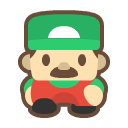
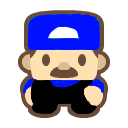
Changed colour of officer

Changed region(s): [[0.2188, 0.0938, 0.7812, 0.4062], [0.1562, 0.5938, 0.8125, 0.9062]]

diff --git a/Sketch2.java b/Sketch2.java
@@ -39,8 +39,8 @@ public class Sketch2 extends PApplet {
   float officerY = 110;
   float prisonerX = 640;
   float prisonerY = 350;
-  int intOfficerSpeed = 4;
-  int intPrisonerSpeed = 4;
+  int intOfficerSpeed = 3;
+  int intPrisonerSpeed = 5;
   int intGCount;
   int intPCount;
   int SCREEN_WIDTH = 1408;
@@ -321,7 +321,7 @@ public class Sketch2 extends PApplet {
   if (intTimer == 0){
     intTimerStart = 2;
   }
-  
+    
   // Guard win screen
   if (blnGuardWin == true || intTimer == 0){
     image(imgMenu, 0, 0);
@@ -331,12 +331,12 @@ public class Sketch2 extends PApplet {
     fill(255);
     textSize(150);
     text("GAME OVER", 340, 460);
-    fill(21, 255, 0);
+    fill(13, 5, 247);
     textSize(60);
     text("The Guard Won!", 490, 550);
-   }
-   // Prisoner win screen 
-   if (intKeyCount == 6 && (prisonerX < 32 || prisonerX > 1366)){
+    }
+    // Prisoner win screen 
+    if (intKeyCount == 6 && (prisonerX < 32 || prisonerX > 1366)){
     image(imgMenu, 0, 0);
     fill(0);
     rect(200, 210, 1000, 400);
@@ -348,7 +348,7 @@ public class Sketch2 extends PApplet {
     textSize(60);
     text("The Prisoner Won!", 460, 550);
     } 
-  }
+  }  
 
   /**
    * Method to create grass
@@ -399,10 +399,26 @@ public class Sketch2 extends PApplet {
   public void officerCollisionUp() {
     // from (1, 1) to (1, 20)
     if((officerY <= TILE_HEIGHT * 2) 
-    // Left exit: from (7, 1) going right 3 tiles
+    // Left exit botton: from (7, 1) going right 3 tiles
     || ((officerY + PLAYER_HEIGHT >= TILE_HEIGHT * 7) && (officerY <= TILE_HEIGHT * 8) && (officerX <= TILE_WIDTH * 3))
+    // Left exit top: from (6, 1) going right 1 tile
+    || ((officerY <= TILE_HEIGHT * 6) && officerX <= TILE_HEIGHT * 2)
     // Right exit: from (7, 16) going right 7 tiles
-    || ((officerY <= TILE_HEIGHT * 8) && (officerY >= TILE_HEIGHT * 7) && (officerX + PLAYER_WIDTH >= TILE_WIDTH * 16)))
+    || ((officerY <= TILE_HEIGHT * 8) && (officerY >= TILE_HEIGHT * 7) && (officerX + PLAYER_WIDTH >= TILE_WIDTH * 16))
+    // Top of jail cell from (6, 9) going right 3 tiles
+    || ((officerY + PLAYER_HEIGHT >= TILE_HEIGHT * 6) && (officerY <= TILE_HEIGHT * 7) && (officerX + PLAYER_WIDTH >= TILE_WIDTH * 9) && (officerX + PLAYER_WIDTH/2 <= TILE_WIDTH * 13))
+    // Bottom of jail cell from (10, 9) going right 3 tiles
+    || ((officerY + PLAYER_HEIGHT >= TILE_HEIGHT * 10) && (officerY <= TILE_HEIGHT * 11) && (officerX + PLAYER_WIDTH >= TILE_WIDTH * 9) && (officerX + PLAYER_WIDTH/2 <= TILE_WIDTH * 13))
+    // 3 block horizontals middle left
+    || ((officerX >= TILE_WIDTH * 2.5) && (officerX + PLAYER_WIDTH/2 <= TILE_WIDTH * 6) && (officerY + PLAYER_HEIGHT >= TILE_HEIGHT * 9) && (officerY <= TILE_HEIGHT * 10))
+    // 3 block horizontals on bottom right
+    || ((officerX >= TILE_WIDTH * 15.5) && (officerX + PLAYER_WIDTH/2 <= TILE_WIDTH * 19) && (officerY + PLAYER_HEIGHT >= TILE_HEIGHT * 13) && (officerY <= TILE_HEIGHT * 14))
+    // 3 block horizontals on middle right
+    || ((officerX >= TILE_WIDTH * 15.5) && (officerX + PLAYER_WIDTH/2 <= TILE_WIDTH * 19) && (officerY + PLAYER_HEIGHT >= TILE_HEIGHT * 9) && (officerY <= TILE_HEIGHT * 10))
+    // 3 block horizontals on top left
+    || ((officerX >= TILE_WIDTH * 2.5) && (officerX + PLAYER_WIDTH/2 <= TILE_WIDTH * 6) && (officerY + PLAYER_HEIGHT >= TILE_HEIGHT * 3) && (officerY <= TILE_HEIGHT * 4))
+    // 3 block horizontals on top right
+    || ((officerX >= TILE_WIDTH * 15.5) && (officerX + PLAYER_WIDTH/2 <= TILE_WIDTH * 19) && (officerY + PLAYER_HEIGHT >= TILE_HEIGHT * 3) && (officerY <= TILE_HEIGHT * 4)))
     { 
       officerY += intOfficerSpeed;
     }
@@ -416,7 +432,21 @@ public class Sketch2 extends PApplet {
     // Left exit: from (7, 1) going right 3 tiles
     || ((officerY + PLAYER_HEIGHT >= TILE_HEIGHT * 7) && (officerY + PLAYER_HEIGHT <= TILE_HEIGHT * 8) && (officerX <= TILE_WIDTH * 3))
     // from (7, 16) going right 5 tiles
-    || ((officerY + PLAYER_HEIGHT >= TILE_HEIGHT * 7) && (officerY <= TILE_HEIGHT * 8) && (officerX + PLAYER_WIDTH >= TILE_WIDTH * 16)))
+    || ((officerY + PLAYER_HEIGHT >= TILE_HEIGHT * 7) && (officerY <= TILE_HEIGHT * 8) && (officerX + PLAYER_WIDTH >= TILE_WIDTH * 16))
+    // Top of jail cell from (6, 9) going right 3 tiles
+    || ((officerY + PLAYER_HEIGHT >= TILE_HEIGHT * 6) && (officerY + PLAYER_HEIGHT <= TILE_HEIGHT * 7) && (officerX + PLAYER_WIDTH >= TILE_WIDTH * 9) && (officerX + PLAYER_WIDTH/2 <= TILE_WIDTH * 13))
+    // Bottom of jail cell from (10, 9) going right 3 tiles
+    || ((officerY + PLAYER_HEIGHT >= TILE_HEIGHT * 10) && (officerY <= TILE_HEIGHT * 11) && (officerX + PLAYER_WIDTH >= TILE_WIDTH * 9) && (officerX + PLAYER_WIDTH/2 <= TILE_WIDTH * 13))
+    // 3 block horizontals middle left
+    || ((officerX >= TILE_WIDTH * 2.5) && (officerX + PLAYER_WIDTH/2 <= TILE_WIDTH * 6) && (officerY + PLAYER_HEIGHT >= TILE_HEIGHT * 9) && (officerY <= TILE_HEIGHT * 10))
+    // 3 block horizontals on top left
+    || ((officerX >= TILE_WIDTH * 2.5) && (officerX + PLAYER_WIDTH/2 <= TILE_WIDTH * 6) && (officerY + PLAYER_HEIGHT >= TILE_HEIGHT * 3) && (officerY <= TILE_HEIGHT * 4))
+    // 3 block horizontals on bottom right
+    || ((officerX >= TILE_WIDTH * 15.5) && (officerX + PLAYER_WIDTH/2 <= TILE_WIDTH * 19) && (officerY + PLAYER_HEIGHT >= TILE_HEIGHT * 13) && (officerY <= TILE_HEIGHT * 14))
+    // 3 block horizontals on middle right
+    || ((officerX >= TILE_WIDTH * 15.5) && (officerX + PLAYER_WIDTH/2 <= TILE_WIDTH * 19) && (officerY + PLAYER_HEIGHT >= TILE_HEIGHT * 9) && (officerY <= TILE_HEIGHT * 10))
+    // 3 block horizontals on top right
+    || ((officerX >= TILE_WIDTH * 15.5) && (officerX + PLAYER_WIDTH/2 <= TILE_WIDTH * 19) && (officerY + PLAYER_HEIGHT >= TILE_HEIGHT * 3) && (officerY <= TILE_HEIGHT * 4)))
     { 
       officerY -= intOfficerSpeed;
     }
@@ -426,7 +456,23 @@ public class Sketch2 extends PApplet {
     // from (1, 1) to (15, 1) not including (5, 1)
     if ((officerX <= TILE_WIDTH * 2) && ((officerY <= TILE_HEIGHT * 6) || (officerY + PLAYER_HEIGHT >= TILE_HEIGHT * 7))
     // Left exit: from (7, 1) going right 3 tiles
-    || ((officerY + PLAYER_HEIGHT >= TILE_HEIGHT * 7) && (officerY + PLAYER_HEIGHT <= TILE_HEIGHT * 8) && (officerX <= TILE_WIDTH * 3)))
+    || ((officerY + PLAYER_HEIGHT >= TILE_HEIGHT * 7) && (officerY + PLAYER_HEIGHT <= TILE_HEIGHT * 8) && (officerX <= TILE_WIDTH * 3))
+    // Top of jail cell from (6, 9) going right 3 tiles
+    || ((officerY + PLAYER_HEIGHT >= TILE_HEIGHT * 6) && (officerY + PLAYER_HEIGHT <= TILE_HEIGHT * 7) && (officerX + PLAYER_WIDTH >= TILE_WIDTH * 9) && (officerX + PLAYER_WIDTH/2 <= TILE_WIDTH * 13))
+    // Bottom of jail cell from (10, 9) going right 3 tiles
+    || ((officerY + PLAYER_HEIGHT >= TILE_HEIGHT * 10) && (officerY <= TILE_HEIGHT * 11) && (officerX + PLAYER_WIDTH >= TILE_WIDTH * 9) && (officerX + PLAYER_WIDTH/2 <= TILE_WIDTH * 13))
+    // Right of jail cell from (6, 12) going right 3 tiles
+    || ((officerX + PLAYER_WIDTH >= TILE_WIDTH * 12) && (officerX <= TILE_WIDTH * 13) && (officerY >= TILE_HEIGHT * 6) && (officerY <= TILE_HEIGHT * 11))
+    // 3 block horizontals middle left
+    || ((officerX >= TILE_WIDTH * 2.5) && (officerX + PLAYER_WIDTH/2 <= TILE_WIDTH * 6) && (officerY + PLAYER_HEIGHT >= TILE_HEIGHT * 9) && (officerY <= TILE_HEIGHT * 10))
+    // 3 block horizontals on top left
+    || ((officerX >= TILE_WIDTH * 2.5) && (officerX + PLAYER_WIDTH/2 <= TILE_WIDTH * 6) && (officerY + PLAYER_HEIGHT >= TILE_HEIGHT * 3) && (officerY <= TILE_HEIGHT * 4))
+    // 3 block horizontals on bottom right
+    || ((officerX >= TILE_WIDTH * 15.5) && (officerX + PLAYER_WIDTH/2 <= TILE_WIDTH * 19) && (officerY + PLAYER_HEIGHT >= TILE_HEIGHT * 13) && (officerY <= TILE_HEIGHT * 14))
+    // 3 block horizontals on middle right
+    || ((officerX >= TILE_WIDTH * 15.5) && (officerX + PLAYER_WIDTH/2 <= TILE_WIDTH * 19) && (officerY + PLAYER_HEIGHT >= TILE_HEIGHT * 9) && (officerY <= TILE_HEIGHT * 10))
+    // 3 block horizontals on top right
+    || ((officerX >= TILE_WIDTH * 15.5) && (officerX + PLAYER_WIDTH/2 <= TILE_WIDTH * 19) && (officerY + PLAYER_HEIGHT >= TILE_HEIGHT * 3) && (officerY <= TILE_HEIGHT * 4)))
     {
       officerX += intOfficerSpeed;
     }
@@ -436,7 +482,23 @@ public class Sketch2 extends PApplet {
     // from (1, 20) to (15, 20) not including (8, 20)
     if ((officerX + PLAYER_WIDTH >= TILE_WIDTH * 20) && ((officerY <= TILE_HEIGHT * 8) || (officerY + PLAYER_HEIGHT >= TILE_HEIGHT * 9))
     // Right exit: from (7, 16) going right 7 tiles
-    || ((officerY <= TILE_HEIGHT * 8) && (officerY >= TILE_HEIGHT * 7) && (officerX + PLAYER_WIDTH >= TILE_WIDTH * 16)))
+    || ((officerY <= TILE_HEIGHT * 8) && (officerY >= TILE_HEIGHT * 7) && (officerX + PLAYER_WIDTH >= TILE_WIDTH * 16))
+    // Top of jail cell from (6, 9) going right 3 tiles
+    || ((officerY + PLAYER_HEIGHT >= TILE_HEIGHT * 6) && (officerY + PLAYER_HEIGHT <= TILE_HEIGHT * 7) && (officerX + PLAYER_WIDTH >= TILE_WIDTH * 9) && (officerX + PLAYER_WIDTH/2 <= TILE_WIDTH * 13))
+    // Bottom of jail cell from (10, 9) going right 3 tiles
+    || ((officerY + PLAYER_HEIGHT >= TILE_HEIGHT * 10) && (officerY <= TILE_HEIGHT * 11) && (officerX + PLAYER_WIDTH >= TILE_WIDTH * 9) && (officerX + PLAYER_WIDTH/2 <= TILE_WIDTH * 13))
+    // Right of jail cell from (6, 12) going right 3 tiles
+    || ((officerX + PLAYER_WIDTH >= TILE_WIDTH * 12) && (officerX + PLAYER_WIDTH <= TILE_WIDTH * 13) && (officerY >= TILE_HEIGHT * 6) && (officerY <= TILE_HEIGHT * 11))
+    // 3 block horizontals middle left
+    || ((officerX >= TILE_WIDTH * 2.5) && (officerX + PLAYER_WIDTH/2 <= TILE_WIDTH * 6) && (officerY + PLAYER_HEIGHT >= TILE_HEIGHT * 9) && (officerY <= TILE_HEIGHT * 10))
+    // 3 block horizontals on top left
+    || ((officerX >= TILE_WIDTH * 2.5) && (officerX + PLAYER_WIDTH/2 <= TILE_WIDTH * 6) && (officerY + PLAYER_HEIGHT >= TILE_HEIGHT * 3) && (officerY <= TILE_HEIGHT * 4))
+    // 3 block horizontals on bottom right
+    || ((officerX >= TILE_WIDTH * 15.5) && (officerX + PLAYER_WIDTH/2 <= TILE_WIDTH * 19) && (officerY + PLAYER_HEIGHT >= TILE_HEIGHT * 13) && (officerY <= TILE_HEIGHT * 14))
+    // 3 block horizontals on middle right
+    || ((officerX >= TILE_WIDTH * 15.5) && (officerX + PLAYER_WIDTH/2 <= TILE_WIDTH * 19) && (officerY + PLAYER_HEIGHT >= TILE_HEIGHT * 9) && (officerY <= TILE_HEIGHT * 10))
+    // 3 block horizontals on top right
+    || ((officerX >= TILE_WIDTH * 15.5) && (officerX + PLAYER_WIDTH/2 <= TILE_WIDTH * 19) && (officerY + PLAYER_HEIGHT >= TILE_HEIGHT * 3) && (officerY <= TILE_HEIGHT * 4)))
     {
       officerX -= intOfficerSpeed;
     }
@@ -487,17 +549,17 @@ public class Sketch2 extends PApplet {
       {1,1,1,1,1,1,1,1,1,1,1,1,1,1,1,1,1,1,1,1,1,1},
       {1,2,2,2,2,2,2,2,2,2,2,2,2,2,2,2,2,2,2,2,2,1},
       {1,2,0,0,0,0,0,4,0,0,0,0,0,0,4,0,0,0,0,0,2,1},
-      {1,2,0,4,4,4,0,0,0,4,0,0,4,0,4,0,4,4,4,0,2,1},
+      {1,2,0,2,2,2,0,0,0,4,0,0,4,0,4,0,2,2,2,0,2,1},
       {1,2,0,0,0,0,0,4,0,4,4,4,4,0,0,0,4,0,4,0,2,1},
       {1,2,0,4,4,0,4,4,0,0,0,0,0,0,4,0,4,0,4,0,2,1},
-      {1,0,0,0,0,0,0,4,0,4,4,4,4,0,4,0,0,0,0,0,2,1},
-      {1,2,2,0,4,4,0,4,0,4,0,0,4,0,0,0,2,2,2,2,2,1},
-      {1,2,0,0,0,0,0,4,0,0,0,0,0,0,4,0,0,0,0,0,0,1},
-      {1,2,0,4,4,4,0,4,0,4,0,0,4,0,4,0,4,4,0,4,2,1},
-      {1,2,0,0,0,0,0,0,0,4,4,4,4,0,4,0,0,0,0,0,2,1},
+      {1,0,0,0,0,0,0,4,0,2,2,2,2,0,4,0,0,0,0,0,2,1},
+      {1,2,2,0,4,4,0,4,0,4,0,0,2,0,0,0,2,2,2,2,2,1},
+      {1,2,0,0,0,0,0,4,0,4,0,0,2,0,4,0,0,0,0,0,0,1},
+      {1,2,0,2,2,2,0,4,0,4,0,0,2,0,4,0,2,2,2,0,2,1},
+      {1,2,0,0,0,0,0,0,0,2,2,2,2,0,4,0,0,0,0,0,2,1},
       {1,2,0,4,0,4,0,4,0,0,0,0,0,0,4,4,0,4,4,0,2,1}, 
       {1,2,0,4,0,4,0,4,0,4,4,4,4,0,4,0,0,0,0,0,2,1},
-      {1,2,0,4,0,4,0,0,0,4,0,0,4,0,0,0,4,4,4,0,2,1},
+      {1,2,0,4,0,4,0,0,0,4,0,0,4,0,0,0,2,2,2,0,2,1},
       {1,2,0,0,0,0,0,4,0,0,0,0,0,0,4,0,0,0,0,0,2,1},
       {1,2,2,2,2,2,2,2,2,2,2,2,2,2,2,2,2,2,2,2,2,1},
       {1,1,1,1,1,1,1,1,1,1,1,1,1,1,1,1,1,1,1,1,1,1},

diff --git a/Main.java b/Main.java
@@ -15,8 +15,8 @@ class Main {
     
 	  //Sketch mySketch = new Sketch();  //comment this out to run the other sketch files
 	  //Sketch1 mySketch = new Sketch1();  // uncomment this to run this sketch file
-	  //Sketch2 mySketch = new Sketch2();  // uncomment this to run this sketch file
-	  Lydias_tester_file mySketch = new Lydias_tester_file();  // uncomment this to run this sketch file
+	  Sketch2 mySketch = new Sketch2();  // uncomment this to run this sketch file
+	  //Lydias_tester_file mySketch = new Lydias_tester_file();  // uncomment this to run this sketch file
 
 	  PApplet.runSketch(processingArgs, mySketch);
   }

diff --git a/Sketch.java b/Sketch.java
@@ -331,7 +331,7 @@ public class Sketch extends PApplet {
     fill(255);
     textSize(150);
     text("GAME OVER", 340, 460);
-    fill(21, 255, 0);
+    fill(13, 5, 247);
     textSize(60);
     text("The Guard Won!", 490, 550);
     }
